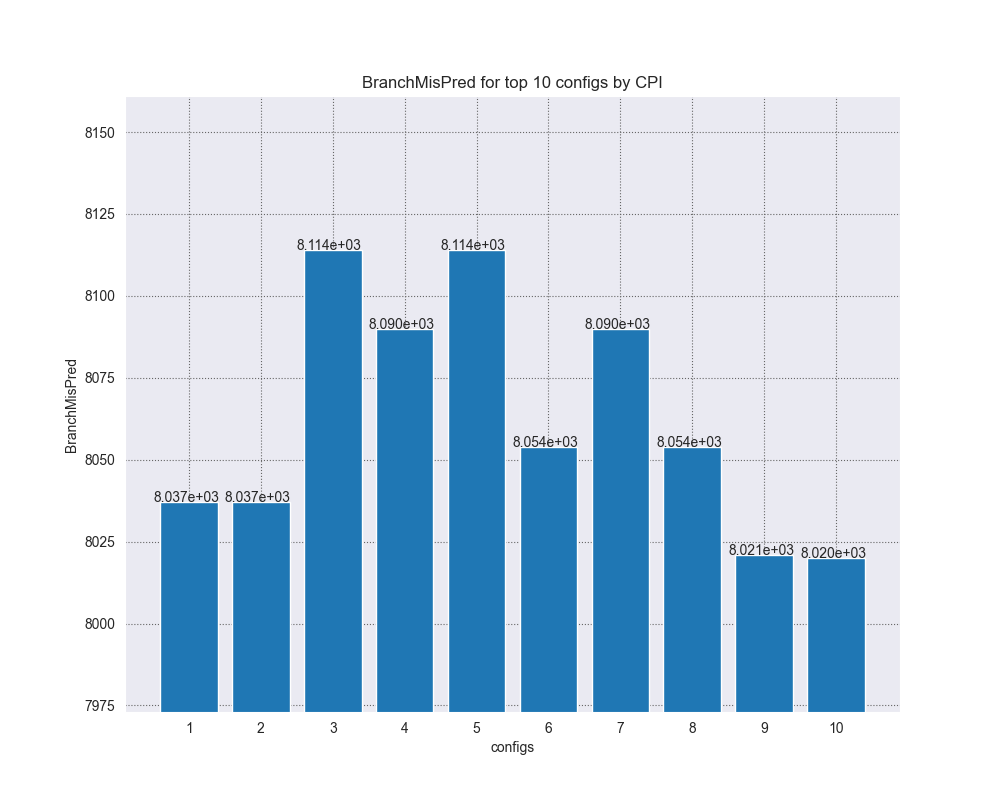
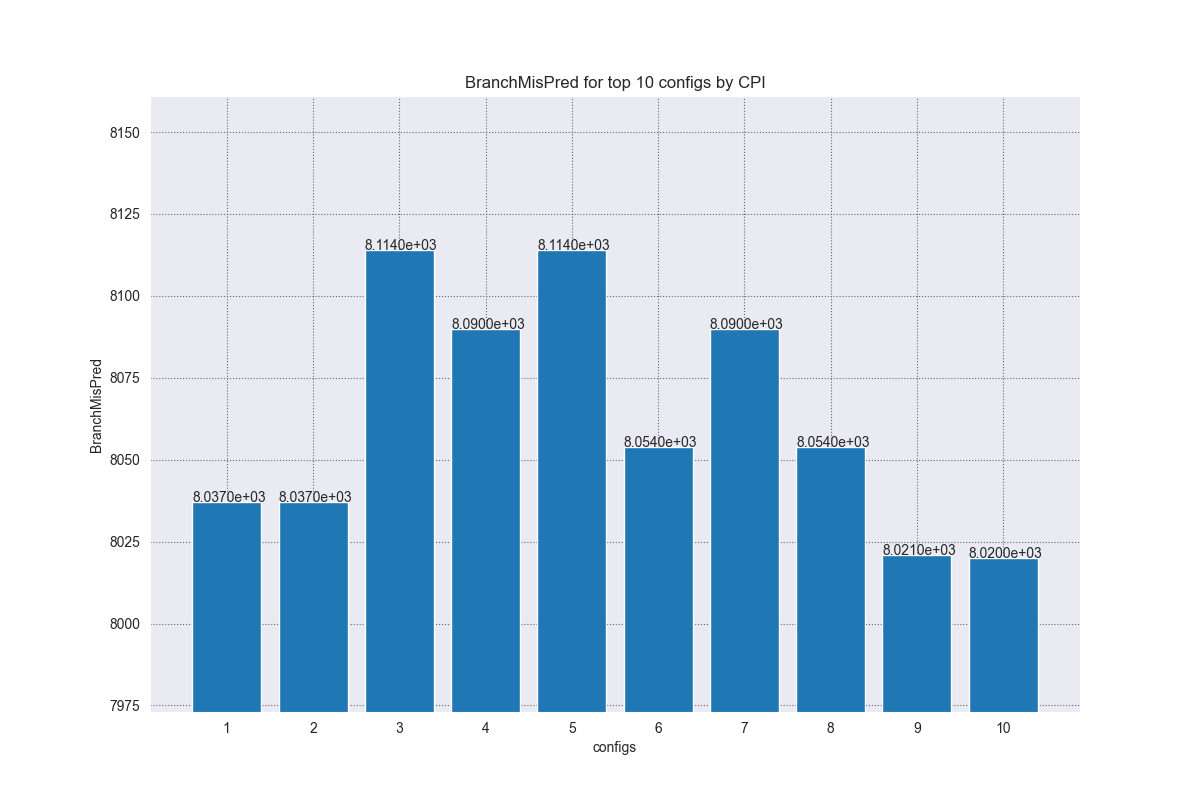
PREC increased to 4 decimal

diff --git a/plot.py b/plot.py
@@ -132,7 +132,7 @@ if __name__ == '__main__':
     print("Plotting different metrics of the top 10 configurations", file = sys.stderr)
     for key in tqdm(OUTPUT_FIELDS):
         sns.set_style("darkgrid", {"grid.color": ".4", "grid.linestyle": ":"})
-        plt.figure(figsize= (10, 8))
+        plt.figure(figsize= (12, 8))
 
         ax = plt.gca()
         ax.yaxis.offsetText.set_visible(False)
@@ -148,7 +148,7 @@ if __name__ == '__main__':
         plt.ylim(min_y_lim, max_y_lim)
         plt.bar(x_data, y_data)
         for index, data in enumerate(y_data):
-            plt.text(index+.5, data , '{0:5.3e}'.format(data))
+            plt.text(index+.6, data , '{0:5.4e}'.format(data))
         plt.xlabel("configs")
         plt.ylabel(key)
         plt.xticks(x_data)
